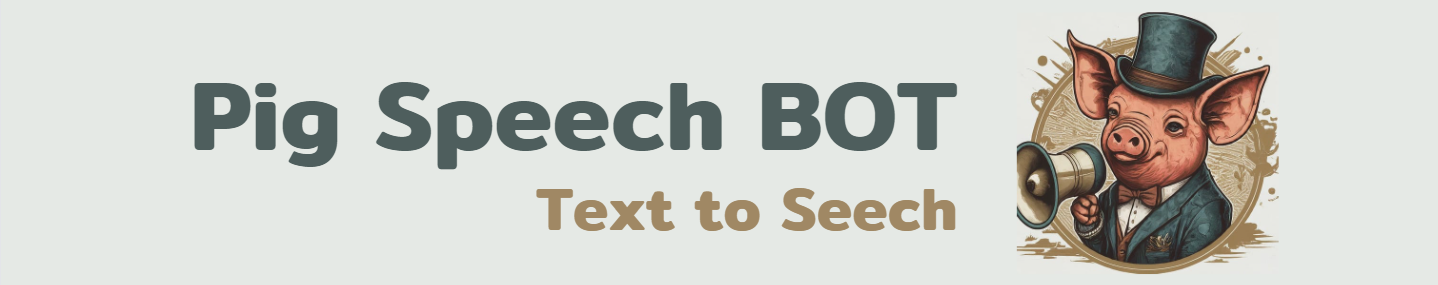
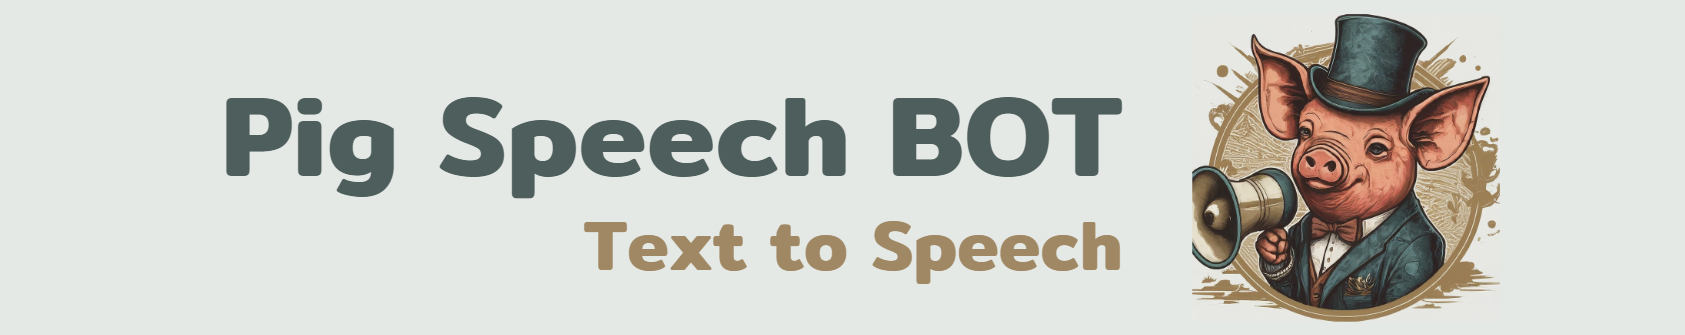
change Pig Speech image

diff --git a/slash_commands/help.py b/slash_commands/help.py
@@ -13,7 +13,7 @@ class Select_Help(discord.ui.Select):
         discord.SelectOption(label="Support Languages 2",emoji="✈"),
         ]         
         super().__init__(max_values=1,min_values=1,options=options) 
-        self.buttomImage = "https://cdn.discordapp.com/attachments/1041014713816977471/1216018299465371668/image.png?ex=65fedc4b&is=65ec674b&hm=af5149ecb6915e4543a88bbd525e2f92436bb546249d27a14ca0677c614c86b6&"  
+        self.buttomImage = "https://cdn.discordapp.com/attachments/1041014713816977471/1264297698190688316/PigSpeech.png?ex=669d5c7c&is=669c0afc&hm=8937ed0e690cf64479944749c2417e87c41cc4d1b18a9ddd826b01f8950da6df&"  
 
     async def callback(self, interaction: discord.Interaction):         
         if self.values[0] == "Main Page":             
@@ -142,7 +142,7 @@ class Help(commands.Cog):
     @app_commands.command(name="help", description="Show the help menu") 
     async def help_command(self, interaction: discord.Interaction):     
         await interaction.response.defer()     
-        embedVar = discord.Embed().set_author(name="Pig Speech", icon_url="https://cdn.discordapp.com/attachments/1041014713816977471/1216018350908379216/pig_logo_2.jpg?ex=65fedc57&is=65ec6757&hm=6e1d7e6c1f1c6a86e26a1072d7beef83a69ee33074b0925486745744c9e1612e&").set_image(url="https://cdn.discordapp.com/attachments/1041014713816977471/1216018299465371668/image.png?ex=65fedc4b&is=65ec674b&hm=af5149ecb6915e4543a88bbd525e2f92436bb546249d27a14ca0677c614c86b6&")     
+        embedVar = discord.Embed().set_author(name="Pig Speech", icon_url="https://cdn.discordapp.com/attachments/1041014713816977471/1216018350908379216/pig_logo_2.jpg?ex=65fedc57&is=65ec6757&hm=6e1d7e6c1f1c6a86e26a1072d7beef83a69ee33074b0925486745744c9e1612e&").set_image(url="https://cdn.discordapp.com/attachments/1041014713816977471/1264297698190688316/PigSpeech.png?ex=669d5c7c&is=669c0afc&hm=8937ed0e690cf64479944749c2417e87c41cc4d1b18a9ddd826b01f8950da6df&")     
         embedVar.add_field(name="🖥 INVITE BOT", value="┊[CLICK HERE](https://discord.com/api/oauth2/authorize?client_id=1196197441381339298&permissions=551906461696&scope=bot)", inline=False)     
         embedVar.add_field(name="📖 Privacy Policy", value="┊[CLICK HERE](https://shorturl.at/CswvS)", inline=False)
         await interaction.edit_original_response(embed=embedVar,view=Select_Help_View()) 
